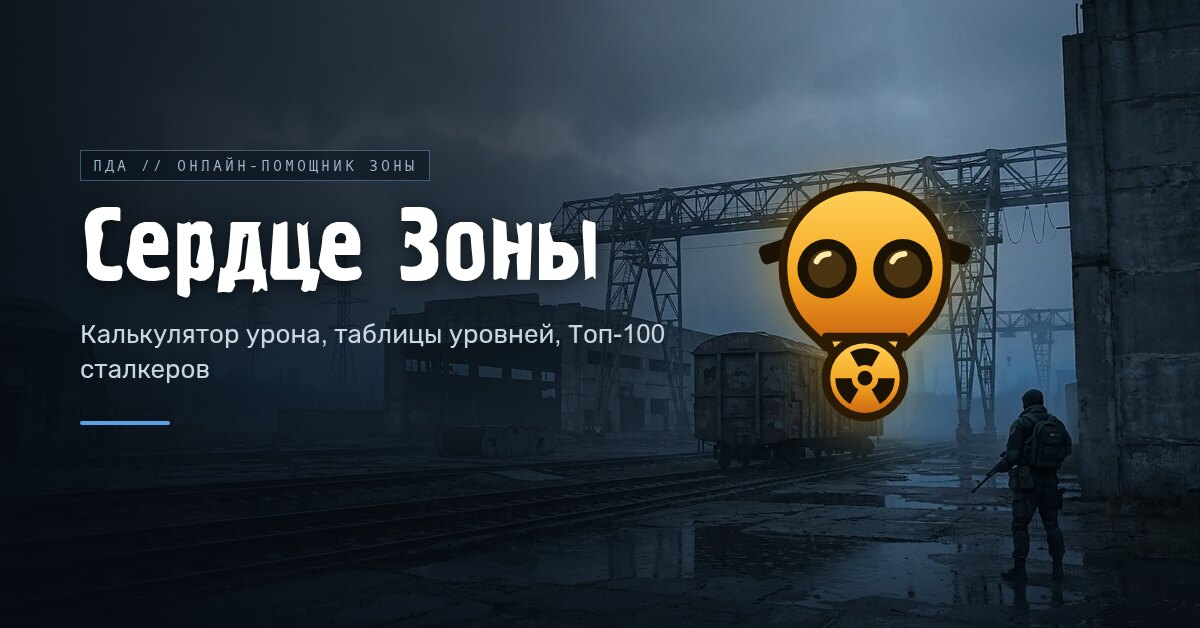
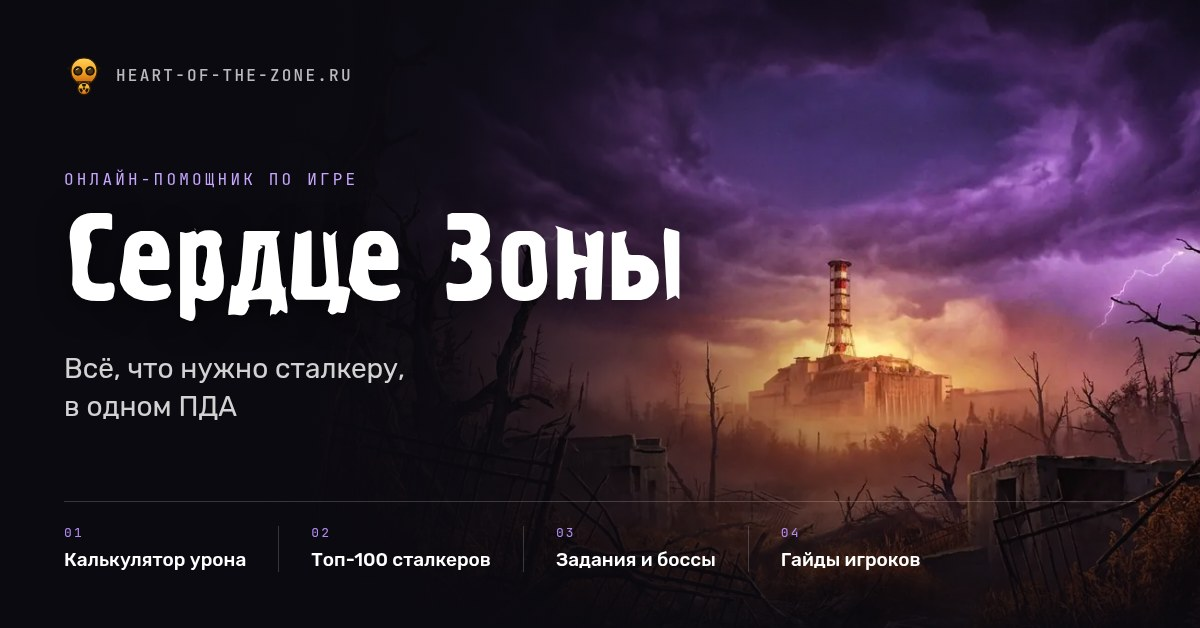
Fix

diff --git a/previews/site.html b/previews/site.html
@@ -1,0 +1,42 @@
+<!doctype html><html lang="ru"><head><meta charset="utf-8">
+<!-- Общее превью сайта (assets/preview.jpg, 1200×628): открыть в Chrome при окне 1200×628 и сделать снимок. -->
+<style>
+@font-face{font-family:G;src:url("../assets/fonts/graffiti-stalker.ttf")}
+@font-face{font-family:R;src:url("../assets/fonts/rubik-cyrillic.woff2");font-weight:300 700}
+@font-face{font-family:R;src:url("../assets/fonts/rubik-latin.woff2");font-weight:300 700;unicode-range:U+0000-00FF}
+@font-face{font-family:M;src:url("../assets/fonts/mono-cyrillic.woff2")}
+@font-face{font-family:M;src:url("../assets/fonts/mono-latin.woff2");unicode-range:U+0000-00FF}
+*{margin:0;box-sizing:border-box}
+html,body{width:1200px;height:628px;overflow:hidden;background:#0b0a10}
+.f{position:relative;width:1200px;height:628px;overflow:hidden;color:#fff;font-family:R,sans-serif}
+.bg{position:absolute;top:-20px;left:250px;width:1180px;height:658px;background:url("../assets/bg-monolith-1280.webp") 50% 40%/cover;filter:saturate(1.1)}
+.sh{position:absolute;inset:0;background:
+ linear-gradient(90deg,#0b0a10 0%,#0b0a10 22%,rgba(11,10,16,.88) 38%,rgba(11,10,16,.35) 56%,rgba(11,10,16,0) 72%),
+ linear-gradient(0deg,rgba(11,10,16,.9) 0%,rgba(11,10,16,0) 38%),
+ linear-gradient(180deg,rgba(11,10,16,.55) 0%,rgba(11,10,16,0) 25%)}
+.in{position:absolute;inset:0;padding:56px 64px;display:flex;flex-direction:column}
+.top{display:flex;align-items:center;gap:12px;font:500 16px/1 M,monospace;letter-spacing:.14em;color:rgba(255,255,255,.72);text-transform:uppercase}
+.top img{width:40px;height:40px}
+.mid{margin-top:auto;margin-bottom:auto}
+.k{font:16px/1 M,monospace;letter-spacing:.2em;color:#c7a6ff;text-transform:uppercase;margin-bottom:20px}
+h1{font:400 124px/0.95 G,sans-serif;letter-spacing:.01em;text-shadow:0 4px 30px rgba(0,0,0,.5)}
+p{margin-top:24px;font:400 28px/1.35 R,sans-serif;color:rgba(255,255,255,.82);max-width:520px}
+.nav{display:flex;gap:0;border-top:1px solid rgba(255,255,255,.18);padding-top:24px}
+.nav div{font:500 19px/1.2 R,sans-serif;color:#fff;padding-right:32px;margin-right:32px;border-right:1px solid rgba(255,255,255,.18)}
+.nav div:last-child{border:0;margin:0;padding:0}
+.nav b{display:block;font:400 13px/1 M,monospace;letter-spacing:.16em;color:#b28cf5;margin-bottom:10px}
+</style></head><body><div class="f"><div class="bg"></div><div class="sh"></div>
+<div class="in">
+ <div class="top"><img src="../favicon.svg" alt="">heart-of-the-zone.ru</div>
+ <div class="mid">
+  <div class="k">Онлайн-помощник по игре</div>
+  <h1>Сердце Зоны</h1>
+  <p>Всё, что нужно сталкеру,<br>в одном ПДА</p>
+ </div>
+ <div class="nav">
+  <div><b>01</b>Калькулятор урона</div>
+  <div><b>02</b>Топ-100 сталкеров</div>
+  <div><b>03</b>Задания и боссы</div>
+  <div><b>04</b>Гайды игроков</div>
+ </div>
+</div></div></body></html>
